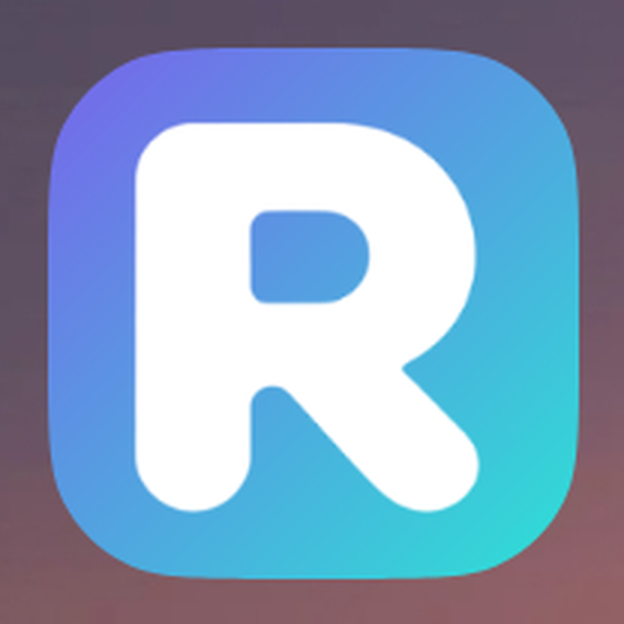
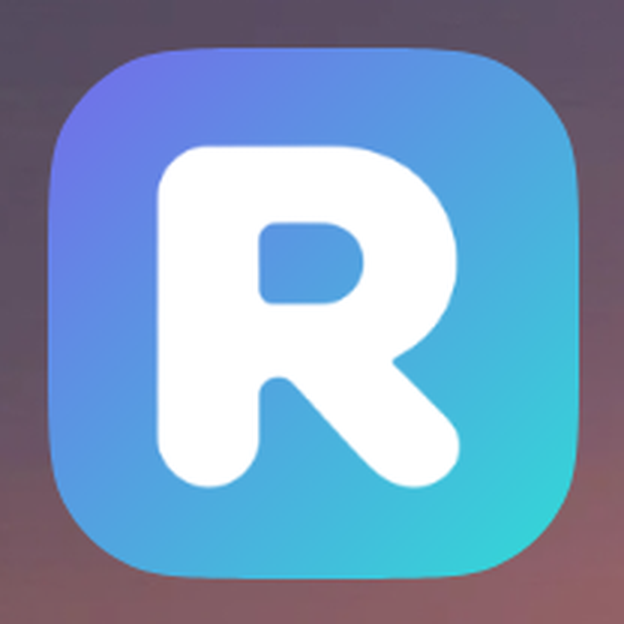
图标换成满幅版：去掉源图自己的圆角
新源图把四个角的透明换成了渐变本身 —— 整张图完全不透明，1080 度铺满。
上一版源图带自己的圆角（半径约占 13%），四角透明，生成时被填成白。

## 修掉一个会镶白边的裁剪 bug

content_box 原来按 max(宽,高) 补正方形。源图是 1482x1486（差 4px），
于是正方形往两边各多要 2px —— 而内容本来就顶到原图边界了，
多要的那部分只能落到原图之外，拿到的是补边的透明像素。
那圈透明在 bleed 模式里会被填成白，结果就是图标左右各镶 2px 白线。

改成按 min(宽,高) 取边长。代价是长边被裁掉一点：内容 1482x1486 裁掉 4px，
占千分之三，肉眼看不出来；真差得多（>2%）会打警告。
取短边还保证了裁剪框必然落在内容之内，不需要依赖补边区兜底。

顺手加了一条自检：把「裁剪框是否落在内容之内」算出来打印。
这类问题在缩略图里几乎看不见 —— 白线只有 2px，混在渐变边缘里根本不会注意到，
只能靠算。

## 验证

- 裁剪框落在内容之内：是（自检输出）
- 前景边框 1px 里「接近白」的像素：四条边各 0 / 432
- 四角取色与源图逐位一致：左上 133,79,238  右下 32,246,210
- 四种遮罩（圆/圆角方/轻圆角/方）预演正常，主题图标行正常
- 真机桌面：图标正确，圆角由 MIUI 托盘遮罩切

## 一件要说明的事

在 MIUI 上，这一版和上一版的**观感几乎没差别** —— MIUI 托盘的圆角（约 22%）
比源图自己那个圆角（约 13%）大，所以源图的圆角本来就被遮罩切掉了。
这次改动真正影响的是**方形托盘、圆角更小的托盘，以及任何不套遮罩显示图标的地方**
（设置列表、最近任务的部分 ROM 实现）。

diff --git a/tools/build_icon.py b/tools/build_icon.py
@@ -113,20 +113,32 @@ def content_box(alpha: np.ndarray):
     直接按 bbox 裁再缩到正方形画布，图形会被拉扁千分之几。补成正方形
     之后 1:1 映射，形状一点不变形。
 
+    **边长取短的那条，不取长的。** 取长边的话，正方形会往短边两侧各多要
+    半个差值 —— 而内容本来就顶到原图边界了，多要的部分只能落到原图之外，
+    拿到的是补边的透明像素。那圈透明在 bleed 模式里会被填成白，
+    于是图标边上镶出一条白线。（满幅的源图最容易踩到：1482x1486 差 4px，
+    就足以在左右各镶 2px 白。）
+
+    取短边的代价是长边被裁掉一点。源图是方形图标，差得极少 ——
+    1299x1302 裁掉 3px，占千分之二，肉眼看不出来。真差得多的话会打警告。
+
     返回 (框, 边长)。框和边长要在前景、单色层之间共用 —— 各算一遍迟早会错位。
     """
     ys, xs = np.nonzero(alpha > 0)
     x0, x1, y0, y1 = int(xs.min()), int(xs.max()), int(ys.min()), int(ys.max())
-    cx, cy = (x0 + x1 + 1) / 2.0, (y0 + y1 + 1) / 2.0
-    side = int(np.ceil(max(x1 - x0 + 1, y1 - y0 + 1) / 2.0) * 2)
+    bw, bh = x1 - x0 + 1, y1 - y0 + 1
+    side = min(bw, bh)
 
+    if max(bw, bh) / side > 1.02:
+        print(f"  ⚠ 内容不是正方形（{bw}x{bh}），按短边裁会切掉长边的一部分")
+
+    cx, cy = (x0 + x1 + 1) / 2.0, (y0 + y1 + 1) / 2.0
     left = int(round(cx - side / 2.0)) + PAD
     top = int(round(cy - side / 2.0)) + PAD
-    # 补边区有限，万一框被推到外面就往回夹一下，保证框始终落在画布内
-    max_left = alpha.shape[1] + 2 * PAD - side
-    max_top = alpha.shape[0] + 2 * PAD - side
-    left = max(0, min(left, max_left))
-    top = max(0, min(top, max_top))
+
+    # 上面取短边之后框必然落在内容之内，这两行只是万一将来改回去时的兜底
+    left = max(0, min(left, alpha.shape[1] + 2 * PAD - side))
+    top = max(0, min(top, alpha.shape[0] + 2 * PAD - side))
     return (left, top, left + side, top + side), side
 
 
@@ -203,12 +215,13 @@ def bleed_foreground(src: Image.Image, px: int, box) -> Image.Image:
     """
     前景层：图形铺满整个 108dp 画布，透明处填白。
 
-    **填白是这次特意加的。** 源图的四个圆角本来是透明的，不填的话：
+    **填白。** 源图如果是带圆角、四角透明的（早期那份就是这样），不填的话：
     方形托盘的角落会透出托盘自己的底色（各家用什么不一定），
     而这个图标要出现在桌面、设置列表、最近任务好几处 —— 填白之后
     它在哪儿都是同一个样子，不用去猜底下垫的是什么。
+    源图本身已经满幅不透明时（现在这份），这一步是空操作。
 
-    铺满而不是缩进安全圆内：源图自己已经带了圆角，那就是它的造型。
+    铺满而不是缩进安全圆内：源图自己就带圆角，那就是它的造型。
     再缩一圈的话，托盘里会变成「一块白方 + 中间一个小渐变方」。
     """
     cropped = pad_and_crop(src, box).resize((px, px), Image.LANCZOS)
@@ -277,10 +290,19 @@ def main() -> None:
     src = np.asarray(src_img)
 
     # 裁剪框只算一次，前景和单色层共用 —— 各算一遍迟早会错位
-    box = content_box(src[:, :, 3])[0] if mode == "bleed" else None
+    box = None
     if mode == "bleed":
-        side = content_box(src[:, :, 3])[1]
+        box, side = content_box(src[:, :, 3])
         print(f"  内容裁成正方形 {side}x{side} -> 铺满 108dp 画布")
+
+        # 自检：裁剪框必须落在内容之内。跑到内容之外就会拿到原图没有的透明像素，
+        # 填白之后就是图标边上一条白线 —— 这类问题在缩略图里几乎看不见，
+        # 只能靠这里算出来
+        ay, ax = np.nonzero(src[:, :, 3] > 0)
+        bx0, by0, bx1, by1 = box
+        ok = (bx0 - PAD >= ax.min() and by0 - PAD >= ay.min()
+              and bx1 - PAD <= ax.max() + 1 and by1 - PAD <= ay.max() + 1)
+        print("  裁剪框落在内容之内：%s" % ("是" if ok else "否 —— 会引入透明边，填白后是白线"))
 
     for folder, px in DENSITIES.items():
         target = os.path.join(res, folder)
